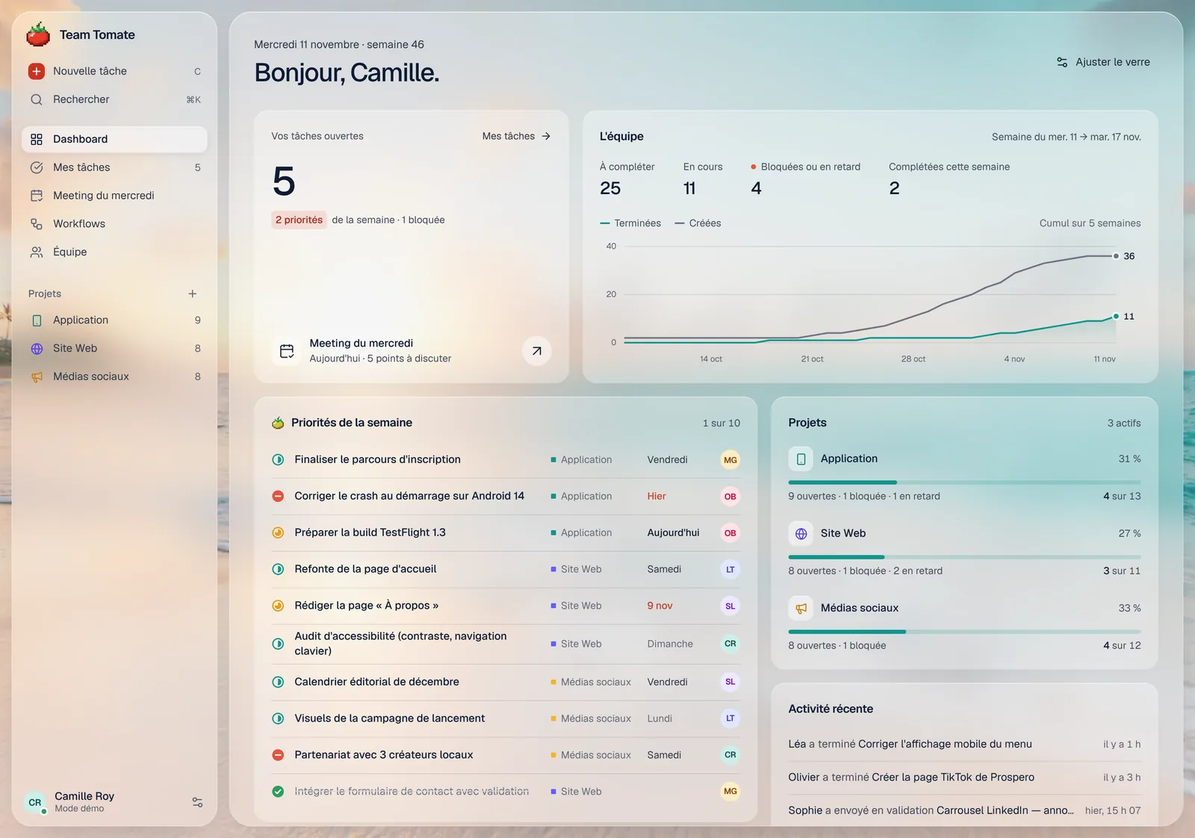
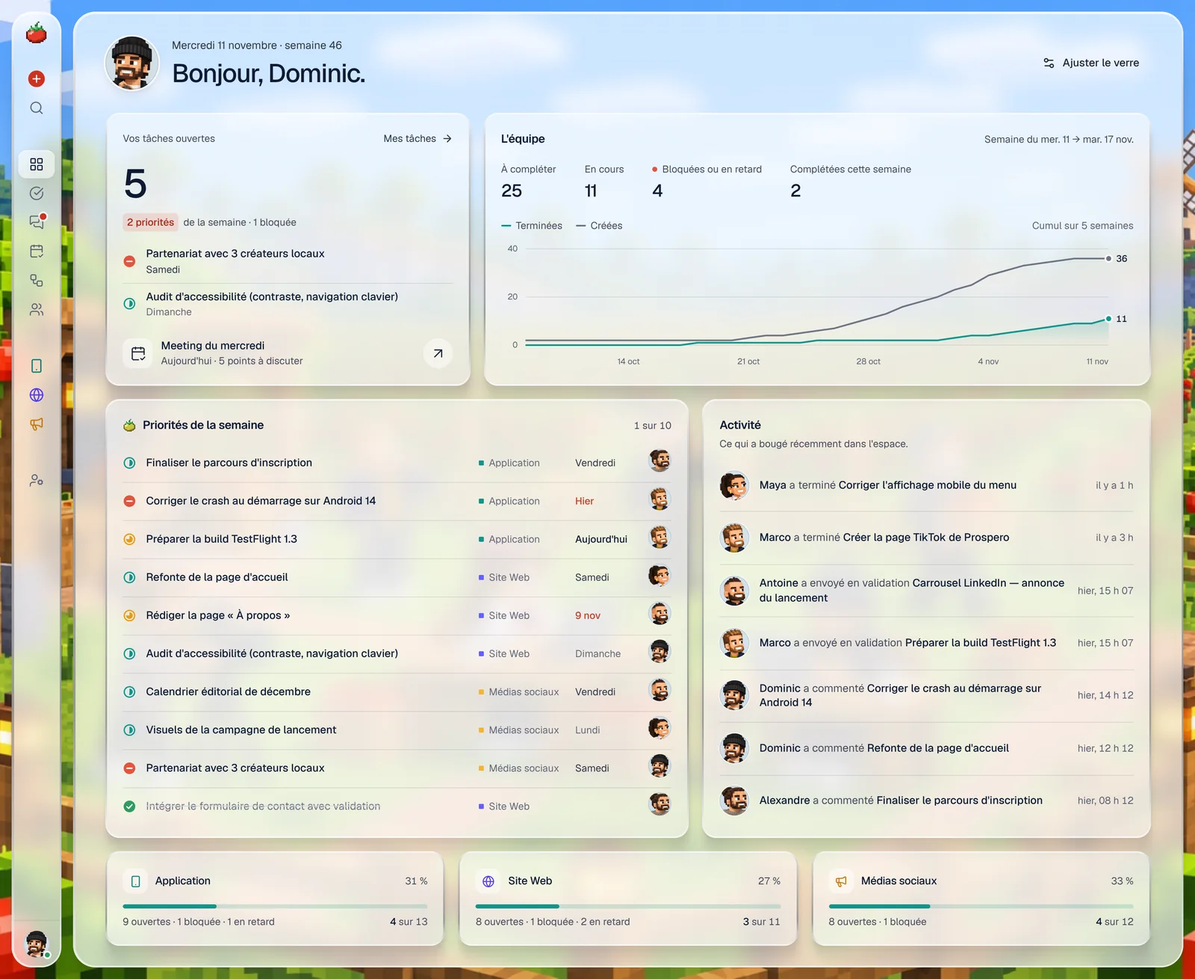
Docs: the polished glass, the two scenes, messages, hover navigation, the bento
README and design notes follow the app: the team's scenes and portraits, the
arrival on the picture, the glass recipe carried over from Koloc Cloud and
its measured contrast, the navigation that opens under the pointer, messages,
the even bento, the shower of tomatoes, accounts and verification figures.
Screenshots retaken on the new look (21, including phone and sign-in).

Claude-Session: https://claude.ai/code/session_01FogaosSJpqDW3pFqCh4GHN

diff --git a/docs/DESIGN.md b/docs/DESIGN.md
@@ -6,7 +6,7 @@ Ce document décrit *pourquoi* l'interface est construite ainsi : les principes,
 
 | Principe | Ce que ça donne concrètement |
 |---|---|
-| **Simplicité** | Sept écrans, une navigation à trois sections. Une seule façon de faire chaque chose. |
+| **Simplicité** | Huit écrans, une navigation à trois sections. Une seule façon de faire chaque chose. |
 | **Clarté** | Chaque tâche montre toujours les mêmes informations, au même endroit. Avatar = qui. Glyphe = où ça en est. Étoile jaune = priorité de la semaine. |
 | **Efficacité** | Créer et assigner une tâche : un titre, `Entrée`. Chaque propriété se modifie là où elle s'affiche, en un clic. `C` crée, `⌘K` trouve. |
 | **Minimalisme** | Du texte, des filets, de l'air. Le contenu est presque monochrome : l'encre, des gris, et très peu de couleur. La matière, elle, est du verre posé sur un paysage : c'est lui qui donne la couleur, pas des aplats ni des capsules. Une information n'apparaît qu'une fois par écran. |
@@ -16,27 +16,38 @@ Ce qui a été volontairement laissé de côté : étiquettes, dépendances, est
 ## 2. Structure des écrans
 
 ```
-Vue d'ensemble                    Projets                 Équipe
-├─ Dashboard        /             ├─ Application          └─ Membres   /equipe
-├─ Mes tâches       /mes-taches   ├─ Site Web
-├─ Meeting          /meeting      └─ Médias sociaux       /projets/<slug>
-│  └─ Récapitulatif /meeting/<id>    (+ nouveaux projets)
-└─ Workflows        /workflows
-   └─ Canevas       /workflows/<id>
+Espace de travail                    Projets                 Paramètres (administrateurs)
+├─ Dashboard        /                ├─ Application          └─ Membres   /parametres
+├─ Mes tâches       /mes-taches      ├─ Site Web
+├─ Messages         /messages        └─ Médias sociaux       /projets/<slug>
+│  └─ Conversation  /messages/<id>      (+ nouveaux projets)
+├─ Meeting          /meeting
+│  └─ Récapitulatif /meeting/<id>
+├─ Workflows        /workflows
+│  └─ Canevas       /workflows/<id>
+└─ Équipe           /equipe
 ```
 
 Le panneau de détail d'une tâche, la création rapide, la recherche et « Ajuster le verre » sont des calques globaux : on les ouvre depuis n'importe quel écran sans perdre sa place.
 
+### Navigation — un rail qui s'ouvre sous la souris
+
+Au repos, la navigation est un rail d'icônes : la fenêtre a toute la place. On approche la souris, elle s'ouvre par-dessus le contenu avec ses libellés, ses compteurs et les projets ; on choisit, elle se replie. L'épingle en haut à droite (ou `⌘B`) la garde ouverte pour qui préfère l'avoir sous les yeux. Le détail du comportement est dans [Forme et mouvement](#forme-et-mouvement).
+
+![La navigation ouverte sous la souris](screenshots/navigation-ouverte.webp)
+
 ### Dashboard — « où en est-on ? »
 
-Des tuiles de verre posées sur la fenêtre, dans la composition du tableau de bord de référence (une tuile étroite et une large, puis une large et une étroite). Les deux colonnes suivent la largeur de la fenêtre, pas celle de l'écran.
+Un bento de tuiles de verre posées sur la fenêtre, dans la composition du tableau de bord de référence : une tuile étroite et une large, une large et une étroite, puis une rangée de tuiles égales. Les colonnes suivent la largeur de la fenêtre, pas celle de l'écran.
 
-1. **En-tête** : la date et la semaine, la salutation, et « Ajuster le verre ».
-2. **Vos tâches ouvertes** : le seul grand chiffre de la page, ce qu'il contient (priorités, retards, blocages) et, en dessous, le prochain **meeting du mercredi** à un clic.
+Le bento est régulier : les tuiles d'une rangée ont la même hauteur, les rangées se suivent sans trou, et aucune tuile n'est à moitié vide. Une tuile remplit la place qu'elle a avec son propre contenu : la liste des priorités donne sa hauteur à sa rangée, et les listes voisines montrent autant de lignes entières qu'il en tient (`.gw-fit`). Les lignes qui n'ont pas la place sont aussi hors du parcours clavier et des lecteurs d'écran.
+
+1. **En-tête** : le portrait de la personne, la date et la semaine, la salutation, et « Ajuster le verre ».
+2. **Vos tâches ouvertes** : le seul grand chiffre de la page, ce qu'il contient (priorités, retards, blocages), les tâches à prendre en premier (priorités, puis retards, puis ce qui est en cours) et, en dessous, le prochain **meeting du mercredi** à un clic.
 3. **L'équipe** : les quatre chiffres (à compléter · en cours · bloquées ou en retard · complétées cette semaine), puis le **rythme** : tâches créées et terminées, cumulées sur cinq semaines. L'écart entre les deux courbes est le travail ouvert ; on voit d'un coup d'œil si l'équipe ferme les tâches aussi vite qu'elle en ajoute.
 4. **Priorités de la semaine** : statut (le glyphe se clique pour le changer), titre, projet, échéance, responsable. La tomate mûrit à mesure qu'elles se terminent.
-5. **Projets** : une barre d'avancement par projet.
-6. **Activité** : qui a fait quoi, sur quelle tâche, et quand : un avatar, une phrase, l'heure.
+5. **Activité** : qui a fait quoi, sur quelle tâche, et quand : un portrait, une phrase, l'heure. Autant d'événements que la hauteur des priorités le permet.
+6. **Projets** : une tuile par projet, toutes égales, avec sa barre d'avancement ; un clic ouvre le projet. Quand la fenêtre est étroite elles passent à la ligne, et la dernière rangée occupe toujours toute la largeur.
 
 Le graphique se lit au survol ou au clavier (flèches gauche et droite, un jour à la fois) et ses chiffres existent aussi dans un tableau pour les lecteurs d'écran.
 
@@ -64,6 +75,24 @@ Panneau latéral : titre, cinq propriétés, description, sous-tâches, puis un 
 Sections dans l'ordre de l'attention : priorités de la semaine → en retard → en cours → à venir → complétées récemment. Une tâche n'apparaît qu'une fois, dans la première section qui la concerne. On peut consulter la vue d'un autre partenaire.
 
 ![Mes tâches](screenshots/mes-taches.webp)
+
+Terminer une tâche — ici ou ailleurs, par la coche, le statut ou une carte glissée dans « Terminé » — fait tomber une courte averse de tomates sur l'écran. Deux secondes, par-dessus tout, sans rien bloquer.
+
+![Une tâche terminée](screenshots/pluie-de-tomates.webp)
+
+### Messages — se parler
+
+Deux volets sur un grand écran : les conversations à gauche, le fil à droite.
+
+- **Général**, le canal de toute l'équipe, puis les **messages directs** entre deux personnes, triés par dernière activité. Une recherche (sans égard aux accents) filtre la liste. « Nouveau message » ouvre la conversation avec la personne choisie, ou la crée.
+- **Le fil** : séparateurs de jour, messages groupés par auteur (portrait et prénom une seule fois), les miens à droite en encre, ceux des autres sur du verre. Un trait « Nouveaux messages » marque l'endroit où je m'étais arrêté, et le fil s'ouvre là. Les adresses web sont des liens ; un message fait seulement d'émojis s'affiche en grand.
+- **La saisie** : `Entrée` envoie, `Maj + Entrée` va à la ligne (sur un clavier tactile, `Entrée` va à la ligne et le bouton envoie). Une petite feuille d'émojis. Le brouillon de chaque conversation est gardé le temps de la visite.
+- **Non-lus** : une pastille tomate sur la conversation et sur l'entrée « Messages » de la navigation (un point sur le rail). Lire, c'est avoir le fil à l'écran, la fin en vue, dans un onglet visible.
+- **Supprimer** : seulement ses propres messages (survol, clic droit ou appui long). Le message reste à sa place, remplacé par « Message supprimé ».
+
+Sur un téléphone, une vue à la fois : la liste, puis la conversation avec une flèche de retour.
+
+![Messages](screenshots/messages.webp)
 
 ### Meeting du mercredi — le rituel
 
@@ -103,15 +132,19 @@ Un workflow décrit un processus ; il ne déclenche aucune action réelle.
 
 Une section « Paramètres » n'apparaît dans la navigation que pour les administrateurs. Son écran, `/parametres`, tient en une tuile d'en-tête (le nombre de membres, une recherche par nom ou courriel, « Inviter des membres ») et un tableau : nom, courriel, rôle, date d'arrivée, et un menu d'actions par ligne (changer le rôle, activer ou désactiver l'accès, retirer une invitation). Un compte en attente d'approbation s'active d'un clic. Le dernier administrateur actif ne peut pas être rétrogradé, et on n'agit pas sur sa propre ligne. La page Équipe redevient la vue d'ensemble de tout le monde : les cartes des membres et leur charge.
 
+![Paramètres : les membres](screenshots/parametres-membres.webp)
+
 ### Connexion
 
-Hors de l'espace de travail, la scène est nette : le potager en plein écran. Dessus, une carte de verre sombre, comme un menu de jeu posé sur son paysage : la tomate, le nom en lettrage pixel, puis le formulaire. La carte s'incline en 3D sous la souris et des lumières parcourent ses bords. Lien magique par défaut ; « Utiliser un mot de passe » bascule de méthode, et « Mot de passe oublié ? » ramène au lien. Sans souris (téléphone) ou avec « moins de mouvement », la carte reste à plat.
+Hors de l'espace de travail, la scène est nette : la ferme en plein écran. Dessus, une carte de verre sombre, comme un menu de jeu posé sur son paysage : la tomate, le nom en lettrage pixel, puis le formulaire. La carte s'incline en 3D sous la souris et des lumières parcourent ses bords. Lien magique par défaut ; « Utiliser un mot de passe » bascule de méthode, et « Mot de passe oublié ? » ramène au lien. Sans souris (téléphone) ou avec « moins de mouvement », la carte reste à plat.
+
+![Connexion](screenshots/connexion.webp)
 
 ### Mobile
 
-Un seul bouton de menu, en haut à gauche de chaque écran : trois traits qui se replient en croix. Il ouvre la navigation en plein écran, sur une feuille de verre givré, avec des lignes à la taille du doigt. La fenêtre de verre garde une petite marge autour d'elle, les tuiles du dashboard s'empilent et les quatre chiffres passent en grille 2 × 2, le tableau ne garde que le titre, le statut et le responsable, le kanban défile horizontalement. Les titres passent sur deux lignes plutôt que d'être tronqués. Les lignes de tâche s'adaptent à la largeur de leur conteneur (et non de l'écran).
+Un seul bouton de menu, en haut à gauche de chaque écran : trois traits qui se replient en croix. Il ouvre la navigation en plein écran, sur une feuille de verre givré, avec des lignes à la taille du doigt. Quand le libellé d'un bouton principal n'a pas sa place (« Nouveau message », « Envoyer », « Nouveau workflow »), il se réduit à un disque tomate. La fenêtre de verre garde une petite marge autour d'elle, les tuiles du dashboard s'empilent et les quatre chiffres passent en grille 2 × 2, le tableau ne garde que le titre, le statut et le responsable, le kanban défile horizontalement. Les titres passent sur deux lignes plutôt que d'être tronqués. Les lignes de tâche s'adaptent à la largeur de leur conteneur (et non de l'écran).
 
-<img src="screenshots/mobile-dashboard.webp" alt="Dashboard mobile" width="320" />
+<img src="screenshots/mobile-dashboard.webp" alt="Dashboard sur téléphone" width="260" /> <img src="screenshots/mobile-menu.webp" alt="Le menu sur téléphone" width="260" /> <img src="screenshots/mobile-messages.webp" alt="Les messages sur téléphone" width="260" />
 
 ## 3. Règles métier visibles
 
@@ -123,6 +156,8 @@ Un seul bouton de menu, en haut à gauche de chaque écran : trois traits qui se
 - **Récapitulatif** : calculé en direct pendant le meeting, figé à la clôture. L'historique ne bouge plus, même si les tâches changent ensuite.
 - **Points à discuter** non traités : ils réapparaissent au meeting suivant avec la mention « Reporté ».
 - **Workflow** : enregistré d'un bloc ; en cas de modification simultanée, la dernière sauvegarde l'emporte.
+- **Messages** : le canal « Général » est lu par tous les membres actifs ; une conversation directe n'existe que pour ses deux membres (la base ne la livre à personne d'autre, y compris en temps réel). Un message ne se modifie pas ; son auteur peut le supprimer. L'auteur, l'heure d'envoi et « lu jusqu'ici » sont fixés par le serveur.
+- **Averse de tomates** : seulement pour une tâche que je termine moi-même, à l'instant. Rien pour ce que terminent les autres, ni quand on rouvre une tâche.
 
 Ces règles vivent dans `lib/selectors.ts` (fonctions pures), pour que chaque écran raconte la même histoire.
 
@@ -132,12 +167,13 @@ Références : Linear pour la sobriété et les interactions, Things pour le cal
 
 ### Le parti pris
 
-Du verre sur un paysage, et un contenu très sobre posé dessus. La matière vient du tableau de bord « verre ajustable » qui a servi de référence : une image en fond, des feuilles givrées dont on voit les bords accrocher la lumière, des tuiles translucides. Le paysage, lui, est à nous : le **Potager**, un champ de tomates en pixel art sous des collines, dessiné pour le projet. Le contenu reste du texte, des filets et de l'espace. L'autre fantaisie est la tomate en pixel art : elle est le logo, elle fait un salto au chargement, et elle mûrit à côté des priorités de la semaine.
+Du verre sur un paysage, et un contenu très sobre posé dessus. L'idée vient du tableau de bord « verre ajustable » qui a servi de référence (une image en fond, des feuilles et des tuiles translucides, des réglages) ; la matière, elle, est le **verre poli** de Koloc Cloud : un anneau métallique, une face translucide, une ombre en huit couches. Les paysages sont à nous : **la ferme**, l'équipe au travail dans son champ de tomates, et **le yacht**, la même équipe au coucher du soleil, en blocs façon jeu de construction. Le contenu reste du texte, des filets et de l'espace. L'autre fantaisie est la tomate en pixel art : elle est le logo, elle fait un salto au chargement, elle mûrit à côté des priorités de la semaine, et il en pleut quelques-unes quand une tâche se termine.
 
 | Élément de marque | Où | Règle |
 |---|---|---|
 | **Tomate** (`kit/pixel-tomato.tsx`) | Logo, préchargeur, connexion, à côté de « Priorités de la semaine » | Grille 16 × 16, dessinée en code, tailles multiples de 16. À côté des priorités, elle **mûrit** en quatre étapes (verte → tournante → orangée → rouge) à mesure qu'elles se terminent. |
 | **Lettrage pixel** (`kit/pixel-text.tsx`) | Le nom, sur l'écran de connexion seulement | Alphabet 5 × 7 dessiné pixel par pixel. Jamais dans l'espace de travail. |
+| **Portraits** (`public/avatars`, `lib/avatars.ts`) | Partout où une personne apparaît : salutation, tâches, messages, équipe, navigation | Les portraits en pixel art des six partenaires, des carrés de 256 px. Un membre reçoit le sien par son nom (ou son prénom seul, quand le profil n'a que lui) ; sans portrait, l'avatar montre des initiales sur la couleur du membre. Six tailles, de 24 à 72 px : 28 px dans une ligne de tâche, 32 px dans un fil de messages, 56 à 64 px à côté de la salutation. |
 
 ![Préchargeur](screenshots/prechargeur.webp)
 
@@ -145,18 +181,20 @@ Du verre sur un paysage, et un contenu très sobre posé dessus. La matière vie
 
 | Couche | Classe | Rôle |
 |---|---|---|
-| **Scène** | `GlassBackdrop` | Le Potager en plein écran, légèrement éclairci, agrandi sans lissage (chaque pixel reste un carré). Il se voit net tout autour des feuilles, et adouci à travers elles. |
-| **Feuilles** | `.gw-glass` | La navigation et la fenêtre principale : du verre, un reflet sur l'arête du haut, un liseré clair, une ombre douce. Coins de 24 et 27 px. Sur le Potager le givre est léger (flou 5 px, 36 % d'opacité) : on reconnaît encore les nuages, le soleil, les sapins et les plants de tomates. |
-| **Tuiles** | `.gw-panel` | Les panneaux du dashboard : un peu plus de matière que la fenêtre (16 % + la moitié de l'opacité), arête éclairée, coins de 17 px. Pas de flou propre : elles héritent de celui de la fenêtre. |
+| **Scène** | `GlassBackdrop` | La ferme (ou le yacht) en plein écran. Elle se voit nette à l'arrivée et tout autour des feuilles, et en formes douces à travers elles. |
+| **Feuilles** | `.gw-glass` | La navigation et la fenêtre principale, en verre poli : un **anneau** métallique de 2,5 px (un dégradé vertical, blanc en haut pour la lumière, foncé aux trois quarts pour l'épaisseur, blanc en bas pour le rebond, évidé en son centre par un masque), une **face** translucide à 72 % avec une très légère diagonale, un flou de 12 px, et une **ombre** en huit couches dont le flou double presque à chaque cran. Coins de 24 et 27 px. |
+| **Tuiles** | `.gw-panel` | Les panneaux du dashboard : le même anneau (2 px), une face plus pleine que la fenêtre (16 % + la moitié de l'opacité, posée sur elle), l'ombre à l'échelle d'une tuile, coins de 17 px. Pas de flou propre : elles héritent de celui de la fenêtre. |
 | **Panneaux denses** | `.card-surface` | Tableaux, listes du meeting, colonnes du kanban : la même tuile, un peu plus remplie pour que le texte dense reste lisible. |
 | **En-tête de page** | `.glass` | Colle en haut de la fenêtre et floute ce qui défile dessous. |
 | **Sombre** | `.glass-dark` | Réservé à la barre du meeting en direct : le sombre veut dire « en direct ». |
 
-Tout dérive de cinq variables (`--gw-blur`, `--gw-opacity`, `--gw-saturation`, `--gw-edge`, `--gw-tint`). « Ajuster le verre » — sur le dashboard et en bas de la navigation — les règle : un arrière-plan (le Potager, trois photos, ou un papier uni), trois préréglages repris de la référence (**Clair** 8 px / 12 %, **Givré** 22 px / 30 %, **Opaque** 32 px / 86 %) et des réglages fins repliés. Chaque arrière-plan vient avec le givre qui lui convient, appliqué quand on le choisit : léger pour le pixel art, appuyé pour une photo (22 px / 30 %, les valeurs de la référence : elle devient de la lumière et de la couleur), presque opaque sur le papier. Les préréglages et les curseurs ajustent à partir de là. Le choix est propre à chaque navigateur. Les photos sombres reçoivent un voile clair plus appuyé, pour que le texte reste lisible.
+Tout dérive de cinq variables (`--gw-blur`, `--gw-opacity`, `--gw-saturation`, `--gw-edge`, `--gw-tint`). « Ajuster le verre » — sur le dashboard et en bas de la navigation — les règle : la scène (la ferme ou le yacht, les deux images de l'équipe), quatre préréglages (**Clair** 8 px / 12 %, **Givré** 22 px / 30 %, **Poli** 12 px / 72 %, le verre de Koloc Cloud et l'aspect par défaut, **Opaque** 32 px / 86 %) et des réglages fins repliés. Le curseur « reflet des bords » dose l'anneau. Choisir une scène remet le verre poli ; les préréglages et les curseurs ajustent à partir de là. Le choix est propre à chaque navigateur.
+
+La recette vient de `ui/verre.css` de Koloc Cloud, portée sur ces variables. Là-bas le verre est posé sur une page grise et unie ; ici il est posé sur une image chargée, d'où une face un peu plus blanche et un flou réglé pour que l'image devienne des formes douces sans disparaître. Quand la navigation s'ouvre par-dessus la page, elle prend la variante dense de la même matière (90 %, flou de 22 px).
 
 L'en-tête de page garde toujours au moins 18 px de flou, même quand le reste du verre est clair : du texte défile dessous.
 
-Règle technique : deux surfaces floutées ne s'emboîtent jamais — un flou imbriqué est ignoré par Chrome. Le givre de la fenêtre est donc un calque à part, placé derrière la zone de défilement, et les tuiles n'ont qu'un fond translucide.
+Règle technique : deux surfaces floutées ne s'emboîtent jamais — un flou imbriqué est ignoré par Chrome. Le givre de la fenêtre est donc un calque à part, placé derrière la zone de défilement, et les tuiles n'ont qu'une face translucide. Autre règle : la face d'une surface est calculée sur la surface elle-même (une variable CSS est résolue là où elle est déclarée), et son opacité est une propriété enregistrée (`@property --verre-alpha`), ce qui lui permet de fondre d'une valeur à l'autre.
 
 ![Ajuster le verre](screenshots/reglage-verre.webp)
 
@@ -166,12 +204,12 @@ Règle technique : deux surfaces floutées ne s'emboîtent jamais — un flou im
 |---|---|---|---|
 | Encre | `navy-900` | `#0D1B33` | Texte |
 | Gris | `navy-300` à `navy-600` | — | Texte secondaire, icônes, bordures. Peu saturés : le texte secondaire est gris, pas bleu. |
-| Papier | `--background` | `#F2F0EB` | Le fond quand on choisit l'arrière-plan « Papier », et sous les écrans d'erreur |
+| Papier | `--background` | `#F2F0EB` | Sous les écrans d'erreur, et là où le flou n'est pas pris en charge |
 | Teal | `teal-500` | `#12948C` | L'avancement : la courbe des tâches terminées et les barres des projets, sur le dashboard |
 | Tomate | `tomato-600` | `#CC3320` | Le **bouton principal**, partout ; le repère « Nouvelle tâche » de la navigation ; la pastille des priorités de la semaine |
 | Statuts | teal, jaune, corail, vert | — | Uniquement dans les glyphes de statut, l'étoile des priorités et les alertes (retard, blocage) |
 
-Les couleurs d'identification (membres, projets) restent discrètes : une pastille pâle avec des initiales, une petite icône au trait.
+Les couleurs d'identification restent discrètes : une petite icône au trait pour un projet ; pour un membre, son portrait, ou à défaut une pastille pâle avec ses initiales.
 
 **Statuts** — un glyphe par statut (`kit/status-icon.tsx`), un anneau qui se remplit à mesure que le travail avance. Le glyphe porte la couleur, le libellé reste en encre.
 
@@ -200,14 +238,15 @@ Geist Sans. Chiffres tabulaires pour les compteurs et les dates. Une échelle co
 
 - **Rayons** : 7 px (petits contrôles), 10 px (lignes de liste et de navigation), 13 px (panneaux denses), 17 px (tuiles), 24 et 27 px (feuilles). Les boutons sont des pastilles.
 - **Boutons** (`ui/button.tsx`) : un seul bouton principal dans toute l'application, une pastille tomate avec un disque blanc à droite. Au survol (ou sous le doigt), le disque inonde le bouton, les couleurs s'inversent et une icône neuve glisse dans le disque. Le disque porte une flèche par défaut ; une icône écrite dans le bouton (`<Plus /> Nouveau workflow`) y prend place. Les variantes discrètes (contour, secondaire, fantôme) sont de simples pastilles. Les très petites tailles et les boutons-icônes sont des pastilles tomate pleines, sans disque. Quand le libellé n'a pas sa place sur un téléphone, `max-sm:af-compact` réduit le bouton à ce même disque tomate (le libellé quitte la page : le bouton porte alors un `aria-label`).
-- **Navigation** (`ui/sidebar.tsx`) : une feuille de verre qui se replie en rail d'icônes (bouton en haut, ou `⌘B`) ; la fenêtre suit, au même rythme (240 ms). Une pastille claire glisse d'une entrée à l'autre pour marquer l'écran courant ; sur le rail, chaque icône a son infobulle. Le choix déplié / replié est gardé dans le navigateur.
+- **Navigation** (`ui/sidebar.tsx`, `app/sidebar.tsx`) : au repos, un rail d'icônes à côté de la fenêtre. Elle **s'ouvre sous la souris**, par-dessus la fenêtre (qui ne bouge pas), sur un verre plus dense et une ombre plus profonde, et se replie quand la souris repart (240 ms). Quelques règles la rendent prévisible : il faut un pointeur qui bouge et qui s'attarde 90 ms (la traverser n'ouvre rien) ; elle attend 260 ms avant de se replier ; elle se replie aussitôt qu'on a choisi une destination, pour ne pas couvrir l'écran demandé ; elle ne se replie pas tant qu'un de ses menus est ouvert. Rien ne saute à l'ouverture : la tomate, les icônes et l'avatar gardent leur place. L'**épingle** en haut (ou `⌘B`) la garde ouverte, et la fenêtre lui fait alors place ; le choix est gardé dans le navigateur. Une pastille claire glisse d'une entrée à l'autre pour marquer l'écran courant.
 - **Infobulle des avatars** (`ui/animated-tooltip.tsx`) : sur les groupes d'avatars et les filtres par membre, le nom et le rôle surgissent avec un ressort et penchent avec le pointeur. Elle est rendue dans un portail : un tableau ou un panneau défilant ne la coupe jamais.
 - **Séparations** : des filets à 10 % d'encre entre les lignes d'une tuile. Les tuiles se détachent par leur arête éclairée et une ombre très courte, jamais par un contour.
 - **Avancement** : un filet de 3 px, encre sur gris, dans les listes ; une barre de 5 px, teal sur teal pâle, sur le dashboard (`kit/progress.tsx`).
 - **Graphique** (`dashboard/flow-chart.tsx`) : deux courbes de 2 px sur un seul axe, la série qui compte en teal, l'autre en gris ; grille en filets pleins, valeur au bout de chaque courbe, légende, lecture au survol.
 - **Défilement** : seule la fenêtre principale défile.
-- **Mouvement** : les tuiles se posent l'une après l'autre (elles montent de 12 px et deviennent nettes, 480 ms, 45 ms d'écart) ; la coche et l'étoile « rebondissent » une fois ; la carte glissée se soulève. Tout est neutralisé avec `prefers-reduced-motion`.
-- **Préchargeur** : une feuille de verre givré couvre toute la scène. La tomate tombe, s'écrase, fait un salto (elle tourne autour d'elle-même, pas autour de sa base), puis alterne petit saut et salto tant que ça charge ; les sauts sont rythmés comme un vrai lancer (vite au départ, lent en haut). Elle reste au moins 1,15 s — la chute et un salto complet — puis le verre s'éclaircit pendant que les tuiles se posent. Tout est mesuré en « pixels de tomate » (8 px, 6 px sur téléphone), en CSS pur.
+- **Mouvement** : les tuiles se posent l'une après l'autre (elles montent de 12 px et deviennent nettes, 480 ms, 45 ms d'écart) ; la coche et l'étoile « rebondissent » une fois ; la carte glissée se soulève ; un message se pose dans le fil. Tout est neutralisé avec `prefers-reduced-motion`.
+- **Averse de tomates** (`app/tomato-rain.tsx`) : une tâche terminée fait tomber de huit à dix-huit tomates du logo, selon la largeur de l'écran. La largeur est découpée en tranches et chaque tomate tombe dans la sienne : jamais d'amas. Trois tailles (20, 28, 36 px), les petites plus lentes, une légère dérive et une rotation. Elles ne prennent aucun clic, et jusqu'à trois averses se superposent quand on enchaîne.
+- **Arrivée et préchargeur** : à l'ouverture, la scène est seule à l'écran, nette ; ni navigation ni fenêtre. Par-dessus, une petite plaque de verre givré, haut dans le ciel pour ne cacher personne : la tomate y tombe, s'écrase, fait un salto (elle tourne autour d'elle-même, pas autour de sa base), puis alterne petit saut et salto tant que ça charge ; les sauts sont rythmés comme un vrai lancer (vite au départ, lent en haut). Elle reste au moins 1,15 s — la chute et un salto complet. Puis la plaque s'en va, l'image reste, et la navigation et la fenêtre apparaissent dessus en fondu (500 ms) pendant que les tuiles se posent. Tout est mesuré en « pixels de tomate » (7 px, 6 px sur téléphone), en CSS pur.
 
 ### Composants
 
@@ -215,7 +254,8 @@ Geist Sans. Chiffres tabulaires pour les compteurs et les dates. Une échelle co
 |---|---|
 | `components/ui` | Primitives shadcn/Radix restylées avec les jetons, et les composants repris des références (voir plus bas) |
 | `components/kit` | Briques de l'application : `PixelTomato`, `PixelText`, `ProgressLine`, `StatusIcon`, `StatusLabel`, `PriorityIcon`, `MemberAvatar`, `DueLabel`, `PriorityStar`, `TaskCheck`, sélecteurs, `EmptyState` |
-| `components/app` | Coquille : `GlassBackdrop`, `GlassScene`, `GlassSettingsButton`, `Preloader`, navigation (bureau et téléphone), recherche |
+| `components/app` | Coquille : `GlassBackdrop`, `GlassScene`, `GlassSettingsButton`, `Preloader`, `TomatoRain`, navigation (bureau et téléphone), recherche |
+| `components/chat` | Messages : `ChatPage` (les deux volets), `ConversationList`, `Thread`, `Composer`, `NewMessage`, `EmojiPicker` ; les règles pures sont dans `lib/chat.ts` |
 | `components/auth` | `LoginScreen` (la scène et la carte), `LoginForm` (lien magique, mot de passe) |
 | `components/settings` | Paramètres des administrateurs : tableau des membres, invitation, rôles |
 | `components/tasks` | `TaskLine` (ligne compacte réutilisée partout), `TaskSheet`, menus contextuels, `QuickAdd` |
@@ -229,7 +269,8 @@ Plusieurs briques viennent de composants que l'équipe a choisis comme référen
 
 | Référence | Ce que c'est devenu | Où |
 |---|---|---|
-| Adjustable glass dashboard | La matière (verre, tuiles, réglages) et la composition du dashboard | `globals.css`, `lib/glass.ts`, `components/dashboard` |
+| Adjustable glass dashboard | Le principe (une image, des feuilles et des tuiles de verre, des réglages) et la composition du dashboard | `globals.css`, `lib/glass.ts`, `components/dashboard` |
+| Verre poli (Koloc Cloud, `ui/verre.css`) | La matière : anneau métallique évidé, face translucide, ombre en huit couches | `globals.css` (`.gw-glass`, `.gw-panel`) |
 | Interactive workflow blueprint | Le canevas des workflows | `ui/interactive-workflow-blueprint.tsx` |
 | Sidebar (Wensity) | La navigation repliable, sa pastille qui glisse | `ui/sidebar.tsx`, `app/sidebar.tsx` |
 | Menu button (Origin UI) | Le bouton de menu du téléphone | `ui/menu-toggle.tsx` |
@@ -238,7 +279,8 @@ Plusieurs briques viennent de composants que l'équipe a choisis comme référen
 | Animated tooltip (Aceternity) | L'infobulle des avatars | `ui/animated-tooltip.tsx` |
 | Activity 1 | Le fil d'activité du dashboard | `dashboard/activity-feed.tsx` |
 | Members 02 | Paramètres → Membres | `components/settings`, `ui/table.tsx` |
+| Chat template | Messages : liste des conversations, fil, saisie | `components/chat` |
 
 ### Accessibilité
 
-Navigation complète au clavier, focus visible (anneau teal), libellés pour les boutons-icônes, zones tactiles confortables sur mobile, états jamais portés par la couleur seule (glyphe + libellé). Le bouton de menu annonce son état (`aria-expanded`) ; sur le rail, chaque entrée garde son nom. Avec « moins de mouvement », la carte de connexion ne s'incline plus et ses lumières s'éteignent, la pastille de navigation et les infobulles apparaissent sans ressort. L'avancement, le graphique et la tomate qui mûrit ont un équivalent textuel. Sur du verre, le contraste dépend de l'image derrière : l'arrière-plan par défaut est clair et chaque image reçoit un voile dosé pour elle, mais le préréglage « Clair » sur une photo sombre peut passer sous le seuil AA pour le texte secondaire. « Opaque » (ou l'arrière-plan « Papier ») le garantit en toutes circonstances.
+Navigation complète au clavier, focus visible (anneau teal), libellés pour les boutons-icônes, zones tactiles confortables sur mobile, états jamais portés par la couleur seule (glyphe + libellé). Le bouton de menu annonce son état (`aria-expanded`). La navigation ne dépend pas du survol : au clavier, le rail se parcourt tel quel (chaque entrée garde son nom, et son infobulle au focus) et la tomate, qui est alors un bouton, l'épingle ouverte ; sur un écran tactile, toucher la tomate fait de même. Le fil des messages est une région `log`, la saisie et chaque bouton ont un libellé, et l'averse de tomates est ignorée des lecteurs d'écran. Avec « moins de mouvement », la carte de connexion ne s'incline plus et ses lumières s'éteignent, la pastille de navigation et les infobulles apparaissent sans ressort, la navigation s'ouvre sans glisser, et aucune tomate ne tombe. L'avancement, le graphique et la tomate qui mûrit ont un équivalent textuel. Sur du verre, le contraste dépend de l'image derrière ; il a été mesuré sur des captures, avec le verre par défaut. Sur la ferme, tout le texte dépasse le seuil AA : 13:1 et plus pour le texte principal, environ 7:1 pour le secondaire, et 4,7:1 au plus bas pour le gris le plus pâle (métadonnées, heures). Sur le yacht, plus sombre, il en va de même dans les tuiles (4,6:1 au plus bas) ; posé directement sur la fenêtre, le gris le plus pâle peut descendre vers 3,8:1 au-dessus des zones les plus sombres. Le préréglage « Clair » passe sous le seuil pour le texte secondaire. « Opaque » garantit le contraste en toutes circonstances.

diff --git a/README.md b/README.md
@@ -8,14 +8,17 @@ Le QG de l'équipe Prospero : nos projets, qui fait quoi, et le **meeting du mer
 
 | | |
 |---|---|
-| **Dashboard** | L'état des projets en 30 secondes, sur des tuiles de verre : ce qui vous attend et le prochain meeting, 4 chiffres pour l'équipe et le rythme des tâches créées et terminées, priorités de la semaine, avancement par projet, activité récente. |
+| **Dashboard** | L'état des projets en 30 secondes, dans un bento de tuiles de verre : ce qui vous attend et le prochain meeting, 4 chiffres pour l'équipe et le rythme des tâches créées et terminées, priorités de la semaine, activité récente, une tuile par projet. |
 | **Projets** | Un tableau structuré (façon Monday) et un kanban (façon Linear) sur les mêmes données : édition en ligne, glisser-déposer, filtres, tri, archivage. |
-| **Tâches** | Responsable, statut, priorité, échéance, description, sous-tâches, commentaires et historique des changements. |
+| **Tâches** | Responsable, statut, priorité, échéance, description, sous-tâches, commentaires et historique des changements. Une tâche terminée fait tomber une petite averse de tomates. |
 | **Mes tâches** | La vue du matin : mes priorités, en retard, en cours, à venir, complétées récemment. |
+| **Messages** | Le canal « Général » pour toute l'équipe et des conversations directes à deux : temps réel, non-lus, recherche, émojis, suppression de ses propres messages. |
 | **Meeting du mercredi** | Préparation automatique → mode réunion en direct → récapitulatif figé → historique. |
 | **Workflows** | Un canevas pour dessiner les processus de l'équipe : déclencheurs, étapes, agents IA, validations, livraisons. Enregistrement automatique, partagé en temps réel. |
-| **Équipe** | Membres, couleur d'identification, charge de chacun, invitations (administrateurs). |
-| **Apparence** | Du verre posé sur un champ de tomates en pixel art, et un contenu sobre par-dessus. Chacun règle sa matière avec « Ajuster le verre » : l'arrière-plan (le potager dessiné pour le projet, trois photos, ou un papier uni), le flou, l'opacité, la saturation, le reflet des bords et la teinte. |
+| **Équipe** | Les partenaires, leur portrait en pixel art et la charge de chacun. |
+| **Paramètres** | Réservé aux administrateurs : tableau des membres, recherche, invitations, rôles, activation des comptes. |
+| **Navigation** | Un rail d'icônes en verre qui s'ouvre sous la souris et se referme quand elle repart ; une épingle (`⌘B`) le garde ouvert. Sur téléphone, un bouton de menu ouvre la navigation en plein écran. |
+| **Apparence** | Du verre poli (celui de Koloc Cloud) posé sur une image de l'équipe, et un contenu sobre par-dessus. À l'arrivée, on voit d'abord l'image avec la tomate qui saute, puis l'application apparaît dessus. Chacun règle sa matière avec « Ajuster le verre » : la scène (la ferme ou le yacht), le flou, l'opacité, la saturation, le reflet des bords et la teinte. |
 
 La semaine de travail va **du mercredi au mardi**. Les priorités de la semaine sont celles choisies au dernier meeting.
 
@@ -56,7 +59,7 @@ Avec les deux variables ci-dessous, l'application utilise Supabase : Postgres po
    NEXT_PUBLIC_SUPABASE_URL=https://<ref>.supabase.co
    NEXT_PUBLIC_SUPABASE_PUBLISHABLE_KEY=sb_publishable_…
    ```
-5. **Première connexion** : la première personne qui se connecte devient administratrice. Elle invite les autres depuis **Équipe → Accès à l'espace** (par courriel). Une personne non invitée peut créer un compte, mais reste « en attente » et ne voit rien tant qu'un administrateur ne l'active pas.
+5. **Première connexion** : la première personne qui se connecte devient administratrice. Elle invite les autres depuis **Paramètres → Membres** (par courriel). Une personne non invitée peut créer un compte, mais reste « en attente » et ne voit rien tant qu'un administrateur ne l'active pas.
 6. **Déployer** sur Vercel (ou tout hébergeur Node) avec ces deux variables.
 
 La connexion se fait par lien magique envoyé par courriel, ou par mot de passe si vous en définissez dans Supabase. Pour un usage régulier, configurez un fournisseur SMTP dans Supabase (l'envoi intégré est limité).
@@ -77,9 +80,9 @@ npm run db:reset
 npm run seed:local
 ```
 
-`db:reset` applique les migrations et crée cinq comptes de démonstration ; `seed:local` ajoute les tâches, meetings et workflows de démo (le script refuse toute base qui n'est pas locale). Les données sont datées par rapport à l'heure de la machine : si elle est en UTC, lancez-le dans le fuseau de l'équipe, par exemple `TZ=America/Toronto npm run seed:local`. Copiez ensuite dans `.env.local` l'URL et les clés affichées par `npx supabase status`, puis `npm run dev`.
+`db:reset` applique les migrations et crée six comptes de démonstration ; `seed:local` ajoute les tâches, meetings, workflows et messages de démo (le script refuse toute base qui n'est pas locale). Les données sont datées par rapport à l'heure de la machine : si elle est en UTC, lancez-le dans le fuseau de l'équipe, par exemple `TZ=America/Toronto npm run seed:local`. Copiez ensuite dans `.env.local` l'URL et les clés affichées par `npx supabase status`, puis `npm run dev`.
 
-Comptes locaux : `camille@prospero.test` (admin), `mathieu@`, `lea@`, `olivier@`, `sophie@prospero.test` — mot de passe `tomate-demo`. Les courriels (liens magiques) arrivent dans Mailpit : http://127.0.0.1:54324.
+Comptes locaux : `dominic@prospero.test` (admin), `alexandre@`, `maya@`, `marco@`, `antoine@`, `jimmy@prospero.test` — mot de passe `tomate-demo`. Ce sont des adresses de test (domaine réservé), pas de vraies boîtes. Les courriels (liens magiques) arrivent dans Mailpit : http://127.0.0.1:54324.
 
 Si les styles semblent périmés après un redémarrage de `npm run dev`, supprimez le cache de développement :
 
@@ -100,12 +103,12 @@ rm -rf .next/dev
 
 ## Architecture
 
-Next.js 16 (App Router) · React 19 · TypeScript · Tailwind CSS 4 · shadcn/ui (Radix) · Zustand · dnd-kit · React Flow · Supabase.
+Next.js 16 (App Router) · React 19 · TypeScript · Tailwind CSS 4 · shadcn/ui (Radix) · Zustand · dnd-kit · React Flow · Motion · Supabase.
 
 ```
 src/
   app/                      routes (pages minces : elles montent un composant)
-    (app)/                  espace connecté : /, /mes-taches, /meeting, /workflows, /projets/[slug], /equipe
+    (app)/                  espace connecté : /, /mes-taches, /messages, /meeting, /workflows, /projets/[slug], /equipe, /parametres
     login/, auth/callback/  connexion (lien magique, mot de passe)
   proxy.ts                  session Supabase + redirection vers /login
   lib/
@@ -115,6 +118,8 @@ src/
     selectors.ts            dérivations pures : indicateurs, seaux du meeting, récapitulatif
     task-logic.ts           règles partagées client / démo (miroir des déclencheurs SQL)
     glass.ts                réglages du verre (préréglages, arrière-plans)
+    chat.ts, chat-hooks.ts  règles de la messagerie (non-lus, regroupement du fil) et leurs hooks
+    avatars.ts              portraits de l'équipe (attribués par le nom)
     workflow-apps.ts        pile d'actions du canevas de workflows
     store.ts                état global + actions optimistes
     data/                   frontière de persistance
@@ -123,17 +128,20 @@ src/
       demo-adapter.ts       base locale (localStorage + BroadcastChannel)
       seed.ts               données de démonstration
   components/
-    ui/                     primitives shadcn + interactive-workflow-blueprint (canevas React Flow)
+    ui/                     primitives shadcn, et les composants repris des références : bouton « arrow fill »,
+                            barre latérale, bouton de menu, infobulle animée, carte de connexion, tableau, canevas React Flow
     kit/                    design system maison : tomate et lettrage pixel, glyphes de statut, filet d'avancement, avatars, sélecteurs
-    app/                    coquille en verre : navigation, recherche, réglages du verre, préchargeur
+    app/                    coquille en verre : navigation (bureau et téléphone), recherche, réglages du verre, préchargeur, averse de tomates
     tasks/                  ligne de tâche, panneau de détail, menus, création rapide
     board/                  tableau, kanban, filtres, glisser-déposer
     workflows/              liste, éditeur et enregistrement des canevas
     dashboard/ my-tasks/ meeting/ team/ auth/
-public/backgrounds/         arrière-plans du verre
+    settings/               paramètres des administrateurs (membres)
+    chat/                   messages : conversations, fil, saisie
+public/backgrounds/         les deux scènes derrière le verre (la ferme, le yacht)
+public/avatars/             portraits de l'équipe (carrés de 256 px)
 scripts/
   seed-local.ts             données de démonstration pour la base locale
-  pixel-backdrop.py         dessine l'arrière-plan « Potager » (Python + Pillow)
 supabase/
   migrations/               schéma, RLS, déclencheurs
   tests/database/           tests pgTAP
@@ -143,7 +151,7 @@ e2e/                        tests Playwright
 
 **Flux de données.** L'interface ne parle jamais directement à Supabase : elle appelle une action du store, qui applique le changement tout de suite à l'écran (optimiste), le persiste par l'adaptateur, puis fusionne les changements des autres membres reçus en temps réel. En cas d'échec, l'écran revient à l'état précédent avec un message. Le mode démo et le mode Supabase partagent exactement la même interface.
 
-**Ajouter un projet** : bouton « + » dans la navigation — aucun code. **Ajouter un statut ou une couleur** : `lib/constants.ts`, `lib/types.ts` et la contrainte correspondante dans une nouvelle migration. **Ajouter un outil à la pile des workflows** : `lib/workflow-apps.ts`.
+**Ajouter un projet** : bouton « + » dans la navigation — aucun code. **Ajouter le portrait d'un nouveau membre** : déposer `prenom-nom.webp` dans `public/avatars/` et ajouter une ligne dans `lib/avatars.ts` ; le portrait est attribué par le nom du profil, sans égard aux majuscules ni aux accents (le prénom seul suffit quand le profil n'a que lui, comme juste après une invitation). **Ajouter un statut ou une couleur** : `lib/constants.ts`, `lib/types.ts` et la contrainte correspondante dans une nouvelle migration. **Ajouter un outil à la pile des workflows** : `lib/workflow-apps.ts`.
 
 ## Sécurité
 
@@ -151,19 +159,21 @@ e2e/                        tests Playwright
 - Seuls les **membres actifs** lisent et modifient les données. Un compte non invité reste en attente.
 - Les commentaires ne sont modifiables que par leur auteur ; l'historique (`task_events`) est écrit uniquement par des déclencheurs, jamais par le client.
 - L'auteur et le dernier éditeur d'un workflow sont fixés par le serveur.
+- Messages : une conversation directe n'est lisible que par ses deux membres, y compris par le temps réel, et un client ne peut pas en créer une entre deux autres personnes. On écrit sous son propre nom, à l'heure du serveur ; un message ne se modifie pas, seul son auteur peut le supprimer.
 - Un membre ne peut changer que son propre profil ; rôles et accès sont réservés aux administrateurs, et il reste toujours au moins un administrateur.
 - Seule la clé *publishable* est exposée au navigateur. En-têtes de sécurité de base dans `next.config.ts`.
 
 ## Vérifié
 
 - `npm run lint`, `npm run typecheck`, `npm run build` : sans erreur ni avertissement.
-- `npm run db:test` : 89 assertions pgTAP (droits, RLS, déclencheurs, invitations, workflows), sur une base vide comme avec les données de démonstration.
-- `npm run test:e2e` : 8 scénarios (tableau, kanban, filtres/archivage, raccourcis et panneau de tâche, synchronisation entre onglets, meeting complet, workflows, réglages du verre).
-- Contre une instance Supabase locale : connexion par mot de passe et par lien magique, persistance en base, propagation en temps réel entre deux navigateurs (statut, commentaire, glisser-déposer, meeting en direct, canevas de workflow), présence, compte non invité bloqué puis activé, déconnexion.
+- `npm run db:test` : 139 assertions pgTAP (droits, RLS, déclencheurs, invitations, workflows, messagerie).
+- `npm run test:e2e` : 38 scénarios en mode démo — tableau, kanban, filtres et archivage, raccourcis et panneau de tâche, synchronisation entre onglets, meeting complet, workflows, réglages du verre, navigation (survol, épingle, téléphone), connexion, paramètres des membres, messagerie (écrans et règles), portraits, averse de tomates, arrivée sur la scène et bento régulier du dashboard.
+- Contre une instance Supabase locale : connexion par mot de passe et par lien magique, persistance en base, propagation en temps réel entre deux navigateurs (statut, commentaire, glisser-déposer, meeting en direct, canevas de workflow), présence, compte non invité bloqué puis activé depuis les paramètres, déconnexion ; messagerie à trois comptes (livraison en direct, conversation directe invisible pour un tiers dans l'interface, le temps réel et l'API, lecture persistée, suppression propagée).
 
 ## Limites connues du MVP
 
-- Pas de pièces jointes, de notifications par courriel ni d'intégrations externes — volontairement. Les étapes d'un workflow décrivent un processus ; elles ne déclenchent rien.
+- Pas de pièces jointes, de notifications par courriel ni d'intégrations externes — volontairement. La messagerie est du texte : pas de fichiers, de fils de réponses, de mentions ni de modification d'un message envoyé. Chaque conversation charge ses 100 derniers messages, les précédents à la demande. Les étapes d'un workflow décrivent un processus ; elles ne déclenchent rien.
+- Les portraits sont livrés avec l'application et attribués par le nom : il n'y a pas d'envoi de photo depuis le profil.
 - Un workflow est enregistré d'un bloc : si deux personnes modifient le même canevas au même instant, la dernière sauvegarde l'emporte.
 - L'espace entier est chargé en mémoire au démarrage : parfait pour une petite équipe (quelques milliers de tâches), à paginer au-delà.
 - Les dates « jour » (échéances, début de semaine) suivent le fuseau horaire du navigateur : l'équipe est supposée partager le même fuseau.
@@ -171,8 +181,11 @@ e2e/                        tests Playwright
 
 ## Crédits
 
-- Arrière-plans : « Potager » est dessiné pour le projet par `scripts/pixel-backdrop.py` ; les trois photos viennent d'Unsplash (licence Unsplash), optimisées et servies depuis `public/backgrounds/`.
+- Arrière-plans : « La ferme » et « Le yacht » sont fournis par l'équipe, servis depuis `public/backgrounds/`.
+- Verre : la recette « verre poli » vient de Koloc Cloud (`ui/verre.css`), portée sur les variables réglables de cette application.
 - Canevas de workflows : adapté du composant « interactive-workflow-blueprint » (21st.dev), construit sur [React Flow](https://reactflow.dev).
+- Composants adaptés de références publiées sur 21st.dev : le principe du verre réglable (« adjustable glass dashboard »), la barre latérale (Wensity), le bouton de menu (Origin UI), le bouton « arrow fill » (Hyperiux Vault), l'infobulle animée (Aceternity UI), la carte de connexion (« sign-in card 2 »), le fil d'activité (« activity 1 »), le tableau des membres (« members 02 ») et la messagerie (« chat template »). Le détail est dans [docs/DESIGN.md](docs/DESIGN.md#références-reprises). Animations : [Motion](https://motion.dev) (framer-motion).
 - Logo et lettrage : tomate et alphabet en pixel art dessinés pour le projet (`components/kit/pixel-tomato.tsx`, `pixel-text.tsx`).
+- Portraits : fournis par l'équipe, recadrés en carrés de 256 px (`public/avatars/`).
 
 Voir aussi : [architecture UX/UI, structure des écrans et design system](docs/DESIGN.md).
